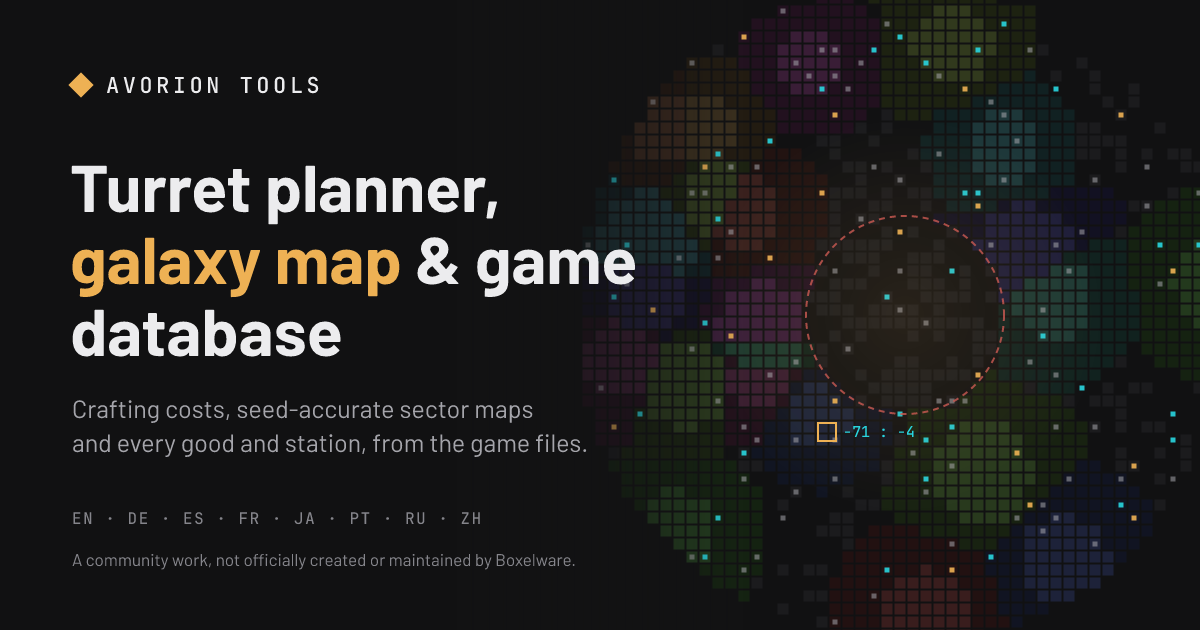
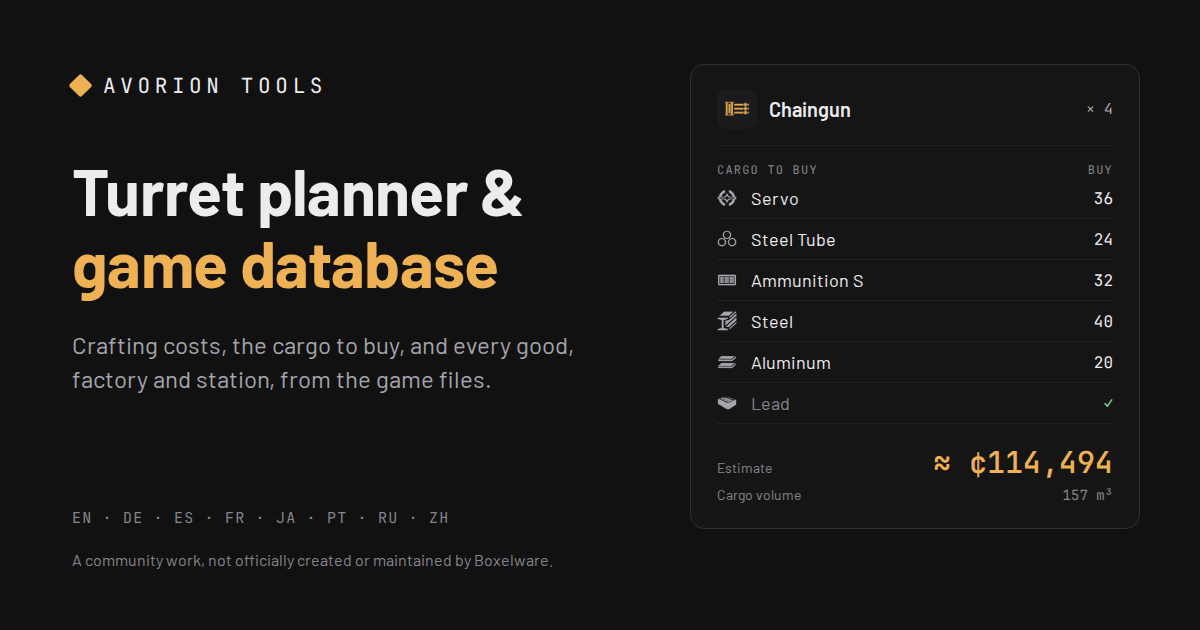
feat(seo): describe the app as a turret planner and game database
- A new Open Graph image shows a planned chaingun and the cargo it needs
  instead of a galaxy map.
- Title, descriptions, keywords, structured data, the manifest and the
  noscript text no longer mention a seed map.

diff --git a/index.html b/index.html
@@ -5,10 +5,10 @@
     <meta name="viewport" content="width=device-width, initial-scale=1.0, viewport-fit=cover">
     <meta name="theme-color" content="#151516"/>
     <meta name="color-scheme" content="dark">
-    <title>Avorion Tools · Turret Planner, Galaxy Map & Game Database</title>
+    <title>Avorion Tools · Turret Planner & Game Database</title>
 
-    <meta name="description" content="Free Avorion companion: plan turret crafting costs, generate the galaxy map from your server seed exactly like the game, and browse every good, factory and station from the game files. In 8 languages.">
-    <meta name="keywords" content="Avorion, Avorion tools, Avorion turret planner, Avorion galaxy map, Avorion seed map, Avorion factory database, Avorion goods, Avorion stations, turret factory, Boxelware">
+    <meta name="description" content="Free Avorion companion: plan turret crafting costs and the cargo to buy, and browse every good, factory and station from the game files. In 8 languages.">
+    <meta name="keywords" content="Avorion, Avorion tools, Avorion turret planner, Avorion factory database, Avorion goods, Avorion stations, turret factory, Boxelware">
     <meta name="author" content="Serhii Sovhut">
     <meta name="application-name" content="Avorion Tools">
     <meta name="apple-mobile-web-app-title" content="Avorion Tools">
@@ -24,13 +24,13 @@
     <meta property="og:type" content="website">
     <meta property="og:site_name" content="Avorion Tools">
     <meta property="og:url" content="https://sovgut.github.io/avorion-tools/">
-    <meta property="og:title" content="Avorion Tools · Turret Planner, Galaxy Map & Game Database">
-    <meta property="og:description" content="Plan turret crafting costs, generate the galaxy map from your server seed and browse every good, factory and station from the game files.">
+    <meta property="og:title" content="Avorion Tools · Turret Planner & Game Database">
+    <meta property="og:description" content="Plan turret crafting costs and the cargo to buy, and browse every good, factory and station from the game files.">
     <meta property="og:image" content="https://sovgut.github.io/avorion-tools/og-image.png">
     <meta property="og:image:type" content="image/png">
     <meta property="og:image:width" content="1200">
     <meta property="og:image:height" content="630">
-    <meta property="og:image:alt" content="Avorion Tools: turret planner, galaxy map and game database, next to a galaxy map drawn from a seed">
+    <meta property="og:image:alt" content="Avorion Tools: turret planner and game database, next to a planned chaingun and the cargo it needs">
     <meta property="og:locale" content="en_US">
     <meta property="og:locale:alternate" content="de_DE">
     <meta property="og:locale:alternate" content="es_ES">
@@ -41,10 +41,10 @@
     <meta property="og:locale:alternate" content="zh_CN">
 
     <meta name="twitter:card" content="summary_large_image">
-    <meta name="twitter:title" content="Avorion Tools · Turret Planner, Galaxy Map & Game Database">
-    <meta name="twitter:description" content="Plan turret crafting costs, generate the galaxy map from your server seed and browse every good, factory and station from the game files.">
+    <meta name="twitter:title" content="Avorion Tools · Turret Planner & Game Database">
+    <meta name="twitter:description" content="Plan turret crafting costs and the cargo to buy, and browse every good, factory and station from the game files.">
     <meta name="twitter:image" content="https://sovgut.github.io/avorion-tools/og-image.png">
-    <meta name="twitter:image:alt" content="Avorion Tools: turret planner, galaxy map and game database, next to a galaxy map drawn from a seed">
+    <meta name="twitter:image:alt" content="Avorion Tools: turret planner and game database, next to a planned chaingun and the cargo it needs">
 
     <script type="application/ld+json">
     {
@@ -52,7 +52,7 @@
         "@type": "WebApplication",
         "name": "Avorion Tools",
         "alternateName": "Avorion Turret Planner",
-        "description": "Turret planner, seed-accurate galaxy map and a game database built from the Avorion game files.",
+        "description": "Turret planner and a game database built from the Avorion game files.",
         "url": "https://sovgut.github.io/avorion-tools/",
         "image": "https://sovgut.github.io/avorion-tools/og-image.png",
         "applicationCategory": "GameApplication",
@@ -63,7 +63,6 @@
         "offers": { "@type": "Offer", "price": "0", "priceCurrency": "USD" },
         "featureList": [
             "Turret crafting cost planner with the commodities to buy",
-            "Galaxy map generated from the server seed, matching the game",
             "Database of goods, factories, mines and stations with recipes"
         ],
         "about": { "@type": "VideoGame", "name": "Avorion", "url": "https://www.avorion.net/", "publisher": { "@type": "Organization", "name": "Boxelware" } },
@@ -72,7 +71,7 @@
     </script>
 </head>
 <body>
-<noscript>Avorion Tools needs JavaScript: a turret planner, a galaxy map generated from the server seed and a database of goods and stations for Avorion. Avorion Tools is a community work, and not officially created or maintained by Boxelware.</noscript>
+<noscript>Avorion Tools needs JavaScript: a turret planner and a database of goods and stations for Avorion. Avorion Tools is a community work, and not officially created or maintained by Boxelware.</noscript>
 <div id="root"></div>
 <script src="/src/main.tsx" type="module"></script>
 </body>
